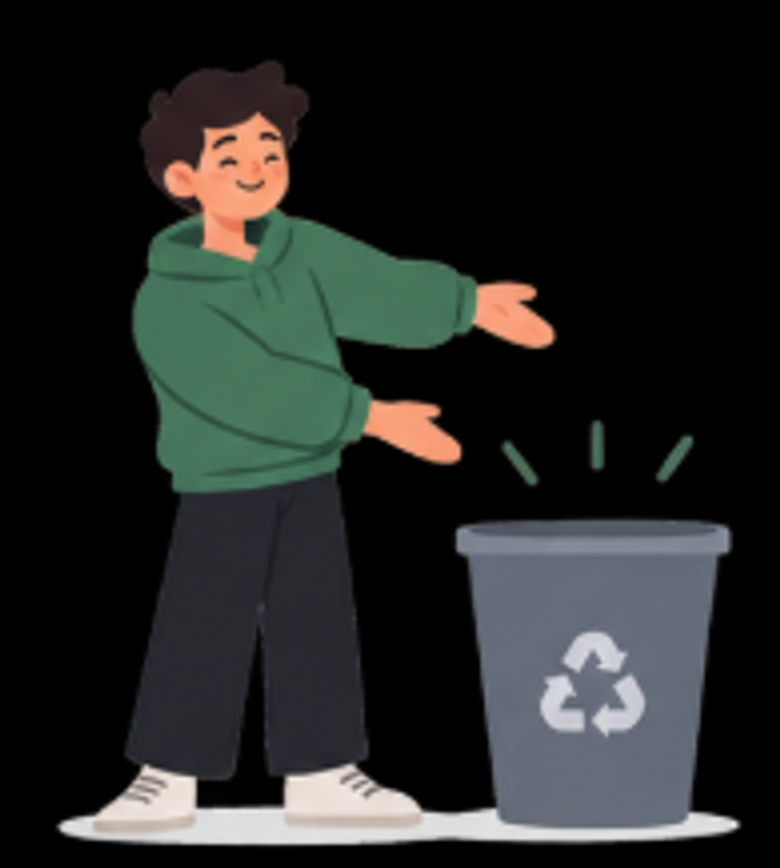
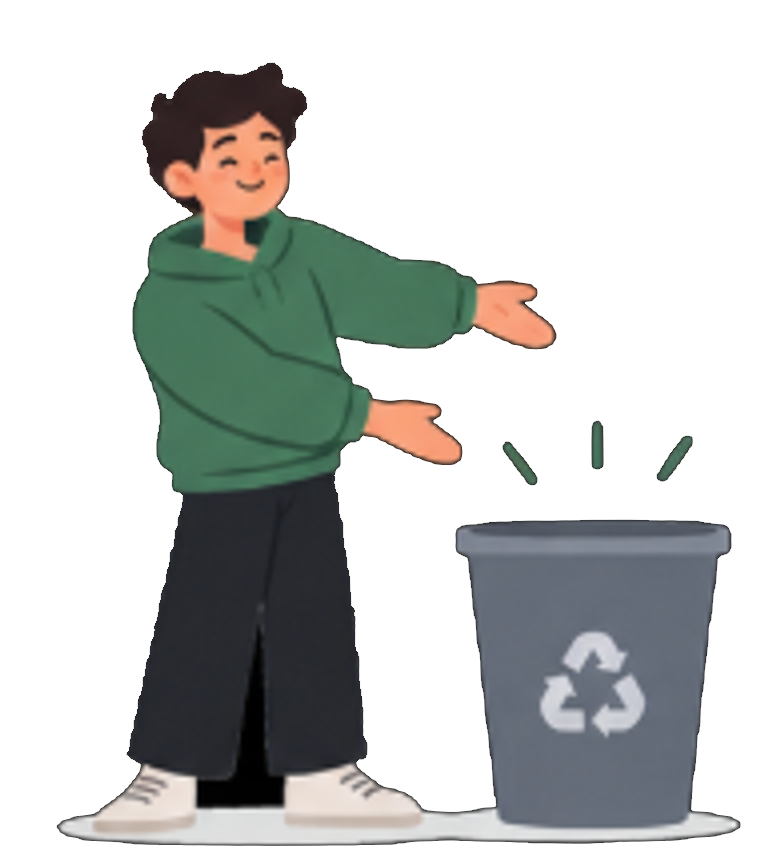
Remove background from illustration and refine empty-state typography

diff --git a/src/styles/pages.css b/src/styles/pages.css
@@ -299,9 +299,9 @@
 .today-goal-top { display: flex; align-items: center; justify-content: space-between; gap: var(--s2); }
 
 /* ── Today: important empty state ── */
-.important-empty { display: grid; justify-items: center; gap: var(--s4); padding: var(--s8) var(--s4); text-align: center; }
+.important-empty { display: grid; justify-items: center; gap: var(--s5); padding: var(--s8) var(--s4); text-align: center; }
 .important-empty-illustration { width: clamp(160px, 38vw, 280px); height: auto; aspect-ratio: 1 / 1; object-fit: contain; display: block; animation: lo-fade-up var(--dur-reveal) var(--ease-entrance) both; }
-.important-empty-text { margin: 0; animation: lo-fade-up var(--dur-reveal) var(--ease-entrance) both; animation-delay: 120ms; }
+.important-empty-text { margin: 0; font-size: var(--fs-body); color: var(--text-3); letter-spacing: 0.012em; line-height: 1.5; animation: lo-fade-up var(--dur-reveal) var(--ease-entrance) both; animation-delay: 120ms; }
 @media (max-width: 430px) { .important-empty { padding: var(--s6) var(--s2); } .important-empty-illustration { width: clamp(140px, 52vw, 200px); } }
 
 /* Quick add (Tasks) */

diff --git a/src/features/today/TodayPage.tsx b/src/features/today/TodayPage.tsx
@@ -178,7 +178,7 @@ export default function TodayPage() {
                   alt="Recycling illustration"
                   loading="lazy"
                 />
-                <p className="muted small important-empty-text">No high-priority tasks open.</p>
+                <p className="important-empty-text">No high-priority tasks open.</p>
               </div>
             )}
           </Section>
